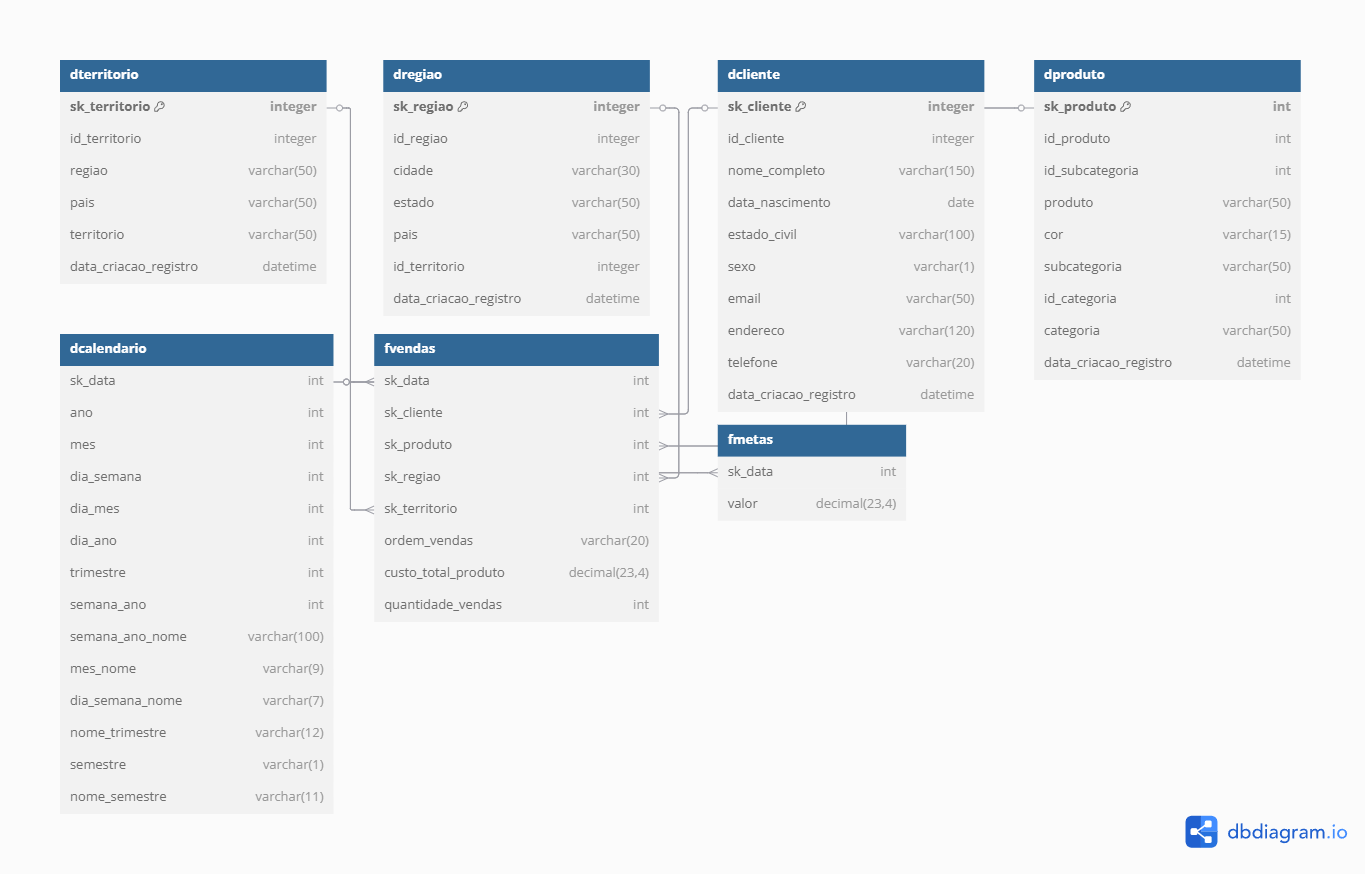
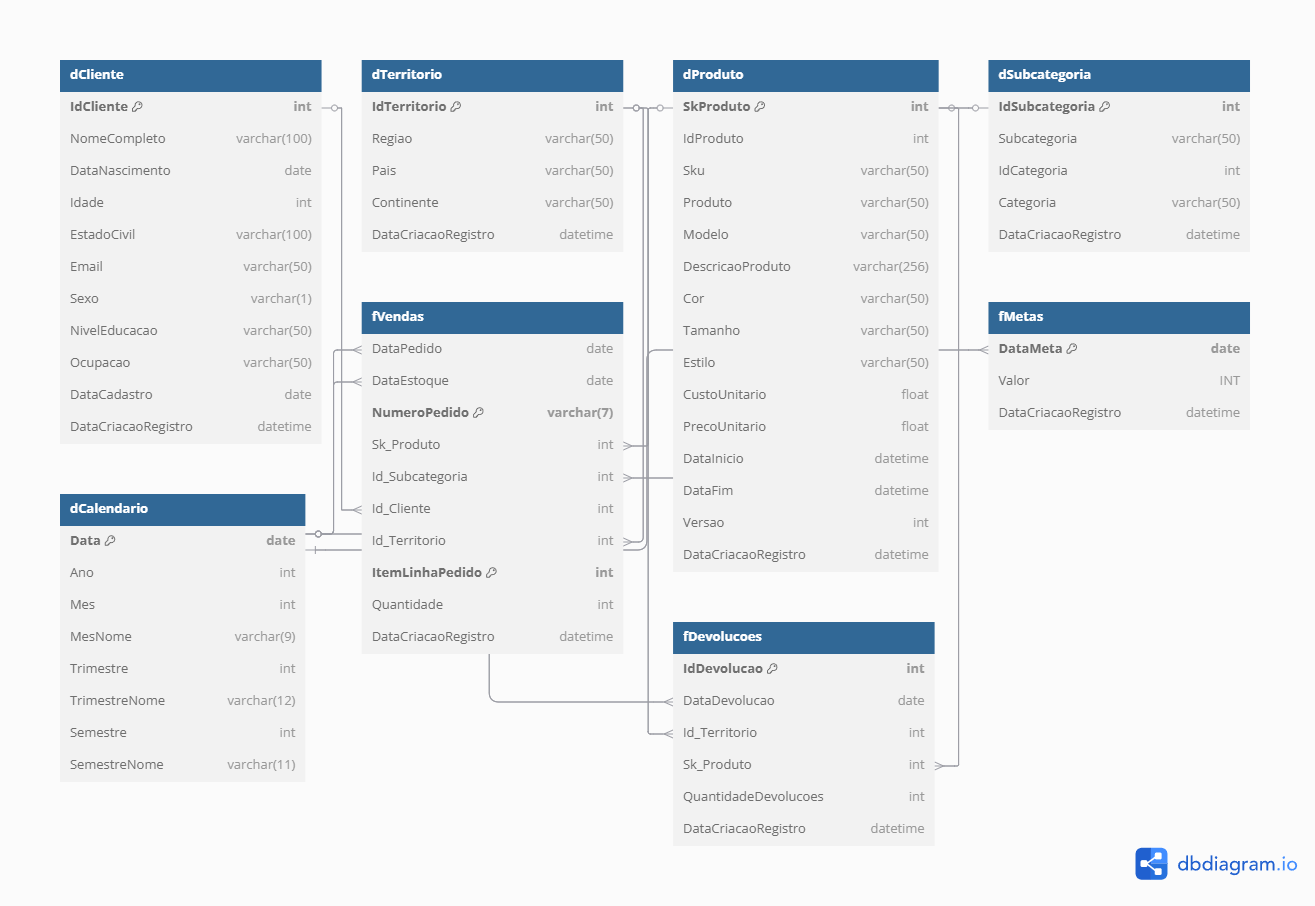
Documentacao Criada!

diff --git a/README.md b/README.md
@@ -1,0 +1,141 @@
+# Curso de Apache Hop – Projeto Final de Vendas
+
+## 🎯 *Objetivo*
+
+Este projeto faz parte do curso de Apache Hop com foco na construção de pipelines ETL utilizando planilhas Excel e banco de dados PostgreSQL como fontes de dados, e modelagem dos dados em um banco relacional SQL Server em formato dimensional com dados de Vendas.
+
+![Projeto](midia\Projeto.png)
+
+Durante o curso, o aluno aprenderá a:
+
+- Configurar ambientes de desenvolvimento e produção no Apache Hop;
+- Extrair dados de fontes heterogêneas (Excel e PostgreSQL);
+- Realizar transformações e orquestrações automatizadas;
+- Carregar dados modelados no SQL Server.
+- Criar um  Sistema de Monitoramento
+
+## 🔎 Sistema Monitoramento
+
+Através deste projeto, você terá acesso ao Xperiun Bot, um bot responsável por monitorar as cargas dentro do banco de dados, fornecendo informações essenciais sobre a inserção correta dos dados no banco.
+
+![Xperiun Bot](midia/XperiunBot.png)
+
+## 📁 *Estrutura do Repositório*
+
+```
+ProjetoVendas/
+│
+├── datasets/                   # Planilhas de entrada e scripts de backup
+│   └── BackupProjetoVendas.sql             
+│   └── metas.xlsx  
+├── metadata/                   # Metadados e arquivos de conexão
+│
+├── midia/                      # Imagens utilizadas na documentação
+│
+├── pipelines/                  # Transformações desenvolvidas no Apache Hop
+│
+├── workflows/                  # Workflows para orquestração de processos
+│   ├── DEV-ProjetoVendas-config.json
+│   ├── PROD-ProjetoVendas-config.json
+│   └── worflowprincipal.hwf
+│
+├── project-config.json         # Arquivo de configuração geral do projeto Hop
+└── README.md                   # Documentação do projeto
+```
+
+## 🗃 *Fontes de Dados*
+
+As fontes de dados utilizadas no projeto incluem:
+
+- **Planilhas Excel**: contendo metas de vendas.
+- **Banco de Dados PostgreSQL**: com informações complementares como clientes, produtos e vendas.
+  
+Esses dados são integrados e tratados no Apache Hop, e o resultado final é modelado no **SQL Server** utilizando o padrão dimensional com tabelas **fato** e **dimensão**.
+
+
+
+## 🧩 *Modelagem dos Dados*
+
+![Modelagem Projeto](midia/DW.png)
+
+**Dimensões:**
+- `dCliente`: Informações dos clientes.
+- `dCalendario`: Datas normalizadas para análises temporais.
+- `dProduto`: Detalhes dos produtos.
+- `dSubcategoria`: Informações referente categorias de produto.
+- `dTerritorio`: Informações dos territórios.
+
+**Fatos:**
+- `fDevolucao`: Registros consolidados de devoluções.
+- `fMetas`: Registros de metas mensais.
+- `fVendas`:  Registros consolidados de vendas.
+
+
+
+## 📌 Pré-requisitos
+
+Certifique-se de que os seguintes softwares estejam instalados:
+
+
+- [Apache Hop](https://hop.apache.org/)
+- [PostgreSQL](https://www.postgresql.org/)
+- [SQL Server](https://www.microsoft.com/pt-br/sql-server/sql-server-downloads)
+- [Git](https://git-scm.com/)
+
+
+
+## 🌐 Configuração de Ambientes (DEV e PROD)
+
+Para facilitar o gerenciamento de ambientes, utilizamos arquivos JSON de configuração:
+
+### Exemplo: `DEV-ProjetoVendas-config.json`
+
+```json
+{
+  "variables": [
+    { "name": "user",  "value": "sa" },
+    { "name": "senha", "value": "NovaSenhaForte@123" },
+    { "name": "host",  "value": "localhost" },
+    { "name": "porta", "value": "1431" }
+  ]
+}
+```
+
+### Exemplo: `PROD-ProjetoVendas-config.json`
+
+```json
+{
+  "variables": [
+    { "name": "user",  "value": "sa" },
+    { "name": "senha", "value": "NovaSenhaForte@123" },
+    { "name": "host",  "value": "localhost" },
+    { "name": "porta", "value": "1433" }
+  ]
+}
+```
+### 📢 Orientações:
+
+- Crie dois arquivos de ambiente:
+  - `DEV-ProjetoVendas-config.json`
+  - `PROD-ProjetoVendas-config.json`
+- Defina variáveis reutilizáveis no Apache Hop para facilitar a migração entre ambientes.
+- Essas variáveis serão utilizadas nas conexões e nos pipelines.
+
+
+## 🚀 Executando o Projeto
+
+1. **Abra o Apache Hop**
+2. **Configure seu projeto apontando para a pasta clonada** do repositório.
+3. **Selecione o ambiente ativo (DEV ou PROD)** ao lado de “Environment”.
+4. **Execute o workflow principal** localizado em `worflowprincipal.hwf`.
+
+## 📄 Direitos de Uso
+
+Este projeto tem como objetivo demonstrar um processo de ETL utilizando Apache Hop. O conteúdo deste repositório pode ser utilizado livremente, desde que o autor não seja responsabilizado por eventuais danos ou problemas decorrentes do uso.
+
+| **Exigido**                          | **Permitido**      | **Proibido**                 |
+|-------------------------------------|--------------------|------------------------------|
+| Aviso de licença e direitos autorais | Uso comercial      | Responsabilidade assegurada |
+|                                     | Modificação        |                              |
+|                                     | Distribuição       |                              |
+|                                     | Sublicenciamento   |                              |
